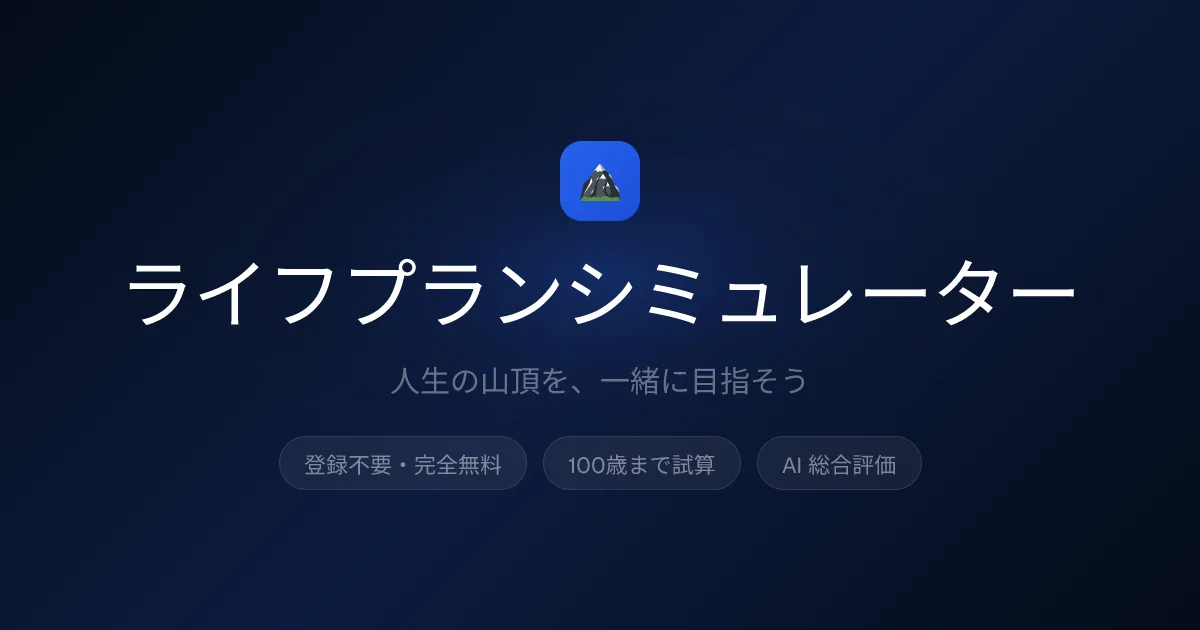
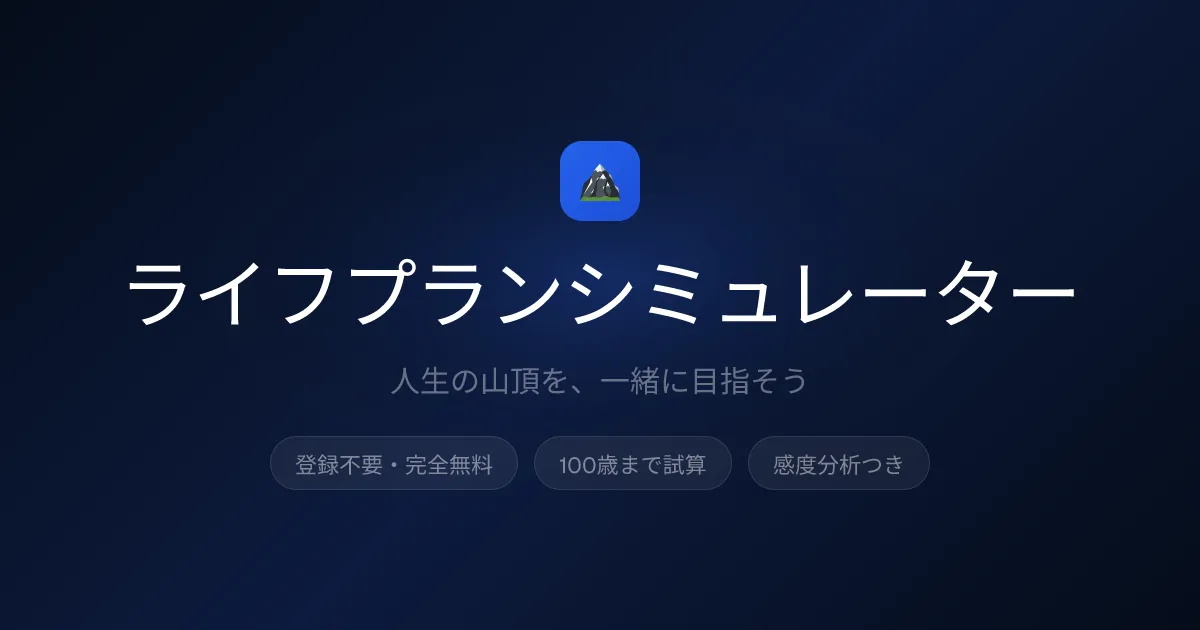
data(lifeplan-simulator): AI 評価機能の削除に合わせて説明・構成図・アイキャッチを直す (#99)
lifeplan-simulator から AI 評価(/api/evaluate・Anthropic Claude 呼び出し)を
削除した(lifeplan-simulator #121)のに合わせる。

- services から Anthropic Claude、trackedPackages から @anthropic-ai/sdk を外す
- 技術概要と構成図を「外部 API なし・全ページ静的配信」に書き換える
- アイキャッチ(静的コピー)を新しい /opengraph-image から作り直す
  (旧画像は「AI 総合評価」バッジ入り)

Changed region(s): [[0.2467, 0.7238, 0.4317, 0.754], [0.4625, 0.7238, 0.6167, 0.754], [0.6475, 0.7238, 0.7708, 0.754]]

diff --git a/src/lib/projects/data.ts b/src/lib/projects/data.ts
@@ -640,12 +640,12 @@ export const rawProjects: RawProject[] = [
     id: "lifeplan-simulator",
     name: "ライフプランシミュレーター",
     description: "収入・支出・住宅・ライフイベント・投資を入力して老後（100歳まで）の資産推移をシミュレーション。",
-    trackedPackages: ["next", "react", "three", "@anthropic-ai/sdk"],
+    trackedPackages: ["next", "react", "three"],
     category: "Simulator",
     platform: "web",
-    services: ["Cloudflare Workers", "Anthropic Claude"],
+    services: ["Cloudflare Workers"],
     createdAt: "2026-04-20",
-    updatedAt: "2026-10-11",
+    updatedAt: "2026-10-27",
     githubUrl: "https://github.com/tktk7l9/lifeplan-simulator",
     githubVisibility: "public",
     liveUrl: "https://lifeplan-simulator.saitotakuya0719.workers.dev",
@@ -655,12 +655,11 @@ export const rawProjects: RawProject[] = [
     ogImage: "/og/lifeplan-simulator.webp",
     favicon: "/favicons/lifeplan-simulator.svg",
     technicalOverview:
-      "資産推移のシミュレーションは lib/simulation の純関数でクライアント側で完結し、状態は Zustand、入力フォームは React Hook Form + Zod で検証する。AI 評価機能のみ Next.js の Route Handler 経由で Claude を呼び出し、レスポンスを Zod でバリデーションする。グラフは Recharts、背景演出は Three.js。\n\nHTML は Worker の入口（worker.ts）で毎リクエストの CSP nonce を付け、事前生成したページは staticAssetsIncrementalCache から描画し直さずに返す。/simulator は zod の検証スキーマと 2 ステップ目以降を分割して表示後のアイドル時に先読みし、初回の JS を gzip 約 325 KB から約 218 KB にした（ローカルのビルド）。",
+      "資産推移のシミュレーションは lib/simulation の純関数でクライアント側で完結し、状態は Zustand、入力フォームは React Hook Form + Zod で検証する。外部 API は呼ばず、全ページを静的に配信する（AI 評価機能は 2026-10-27 に削除）。グラフは Recharts、背景演出は Three.js。\n\nHTML は Worker の入口（worker.ts）で毎リクエストの CSP nonce を付け、事前生成したページは staticAssetsIncrementalCache から描画し直さずに返す。/simulator は zod の検証スキーマと 2 ステップ目以降を分割して表示後のアイドル時に先読みし、初回の JS を gzip 約 325 KB から約 218 KB にした（ローカルのビルド）。",
     architecture: {
       layers: [
-        { nodes: [{ label: "ブラウザ (React 19)", sublabel: "Zustand / RHF+Zod / Recharts / Three.js", kind: "client" }], connector: "AI評価のみ (HTTPS)" },
-        { nodes: [{ label: "Next.js · Cloudflare Workers", sublabel: "Route Handler /api/evaluate ・レート制限", kind: "server" }], connector: "messages.create" },
-        { nodes: [{ label: "Anthropic Claude API", sublabel: "claude-sonnet-4-6", kind: "external" }] },
+        { nodes: [{ label: "ブラウザ (React 19)", sublabel: "lib計算 / Zustand / RHF+Zod / Recharts / Three.js", kind: "client" }], connector: "静的配信 (HTTPS)" },
+        { nodes: [{ label: "Next.js · Cloudflare Workers", sublabel: "App Router / 外部APIなし", kind: "server" }] },
       ],
     },
     emoji: "🏔",
